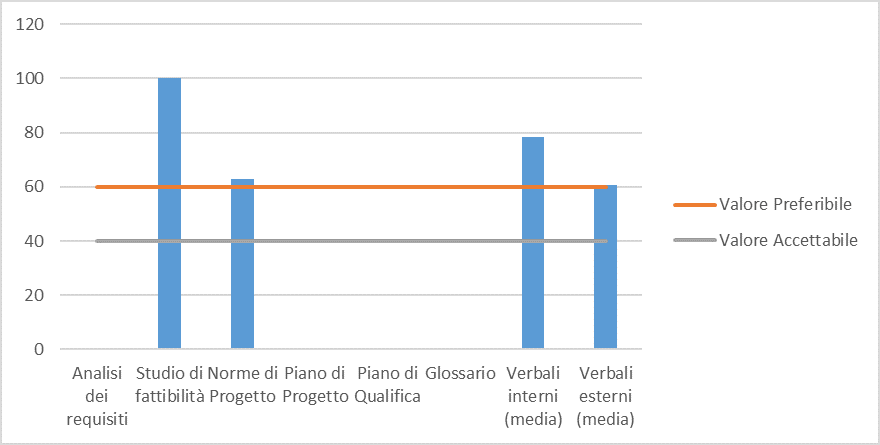
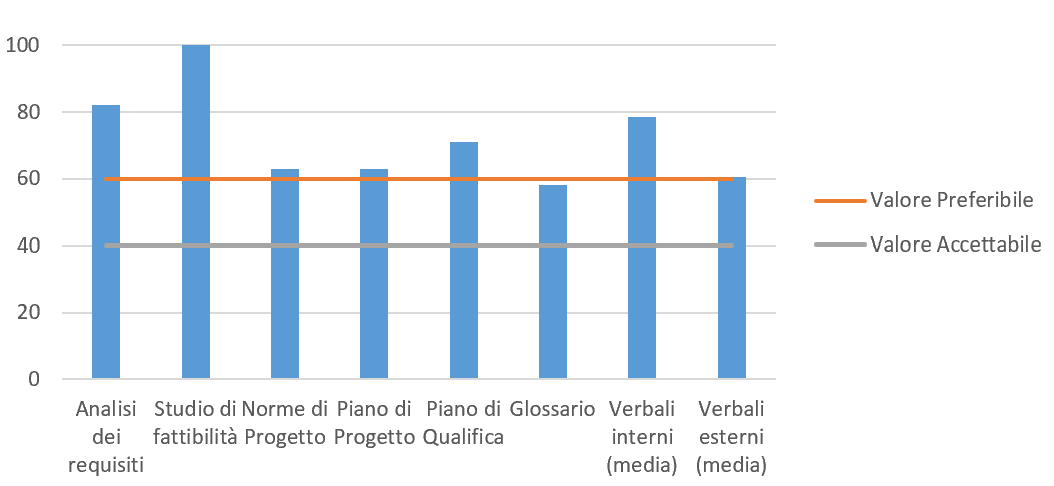
aggiunti indici

Changed region(s): [[0.0, 0.0876, 0.7364, 0.818], [0.0, 0.0, 1.0, 1.0], [0.0, 0.1461, 0.0614, 0.2629]]

diff --git a/01-RR/Esterni/Piano_di_qualifica/res/resoconto-verifica.tex b/01-RR/Esterni/Piano_di_qualifica/res/resoconto-verifica.tex
@@ -21,13 +21,13 @@ L'analisi statica dei documenti ha portato alla produzione di una lista degli er
 	}			
 	\rowcolor{gray!50}
 	\textbf{Documento} & \textbf{I} & \textbf{II} & \textbf{III} & \textbf{IV} & \textbf{V} & \textbf{VI} \TBstrut \\ [2mm]
-	\textbf{Analisi dei Requisiti} & - & - & - & - & - & - \TBstrut \\ [2mm]
+	\textbf{Analisi dei Requisiti} & 80 & 83 & 89 & 75 & 82 & 82 \TBstrut \\ [2mm]
 	\textbf{Studio di Fattibilità} & 95 & 94 & 98 & 97 & 96 & 100 \TBstrut \\ [2mm]
 	\textbf{Norme di Progetto} & 43 & 54 & 57 & 58 & 60 & 63 \TBstrut \\ [2mm]
-	\textbf{Piano di Progetto} & - & - & - & - & - & - \TBstrut \\ [2mm]
-	\textbf{Piano di Qualifica} & - & - & - & - & - & - \TBstrut \\ [2mm]
-	\textbf{Glossario} & - & - & - & - & - & - \TBstrut \\ [2mm]
-	\textbf{Verbali interni (media)} & 87 & 85 & 84 & 83 & 81 & 78 \TBstrut \\ [2mm]
+	\textbf{Piano di Progetto} & 65 & 68 & 63 & 62 & 60 & 63 \TBstrut \\ [2mm]
+	\textbf{Piano di Qualifica} & 65 & 67 & 69 & 65 & 69 & 71 \TBstrut \\ [2mm]
+	\textbf{Glossario} & 62 & 55 & 59 & 45 & 50 & 58 \TBstrut \\ [2mm]
+	\textbf{Verbali interni (media)} & 87 & 85 & 84 & 83 & 82 & 78 \TBstrut \\ [2mm]
 	\textbf{Verbali esterni (media)} & - & - & 62 & 62 & 61 & 61 \TBstrut \\ [2mm]
 	\rowcolor{white}
 	\caption{Indice di Gulpease Revisione dei Requisiti}
@@ -49,12 +49,12 @@ L'analisi statica dei documenti ha portato alla produzione di una lista degli er
 	}			
 	\rowcolor{gray!50}
 	\textbf{Documento} & \textbf{RR} & \textbf{RP} & \textbf{RQ} & \textbf{RA} \TBstrut \\ [2mm]
-	\textbf{Analisi dei Requisiti} & - & - & - & - \TBstrut \\ [2mm]
+	\textbf{Analisi dei Requisiti} & 82 & - & - & - \TBstrut \\ [2mm]
 	\textbf{Studio di Fattibilità} & 100 & - & - & - \TBstrut \\ [2mm]
 	\textbf{Norme di Progetto} & 63 & - & - & - \TBstrut \\ [2mm]
-	\textbf{Piano di Progetto} & - & - & - & - \TBstrut \\ [2mm]
-	\textbf{Piano di Qualifica} & - & - & - & - \TBstrut \\ [2mm]
-	\textbf{Glossario} & - & - & - & - \TBstrut \\ [2mm]
+	\textbf{Piano di Progetto} & 63 & - & - & - \TBstrut \\ [2mm]
+	\textbf{Piano di Qualifica} & 71 & - & - & - \TBstrut \\ [2mm]
+	\textbf{Glossario} & 58 & - & - & - \TBstrut \\ [2mm]
 	\textbf{Verbali interni (media)} & 78 & - & - & - \TBstrut \\ [2mm]
 	\textbf{Verbali esterni (media)}& 61 & - & - & - \TBstrut \\ [2mm]
 	\rowcolor{white}
